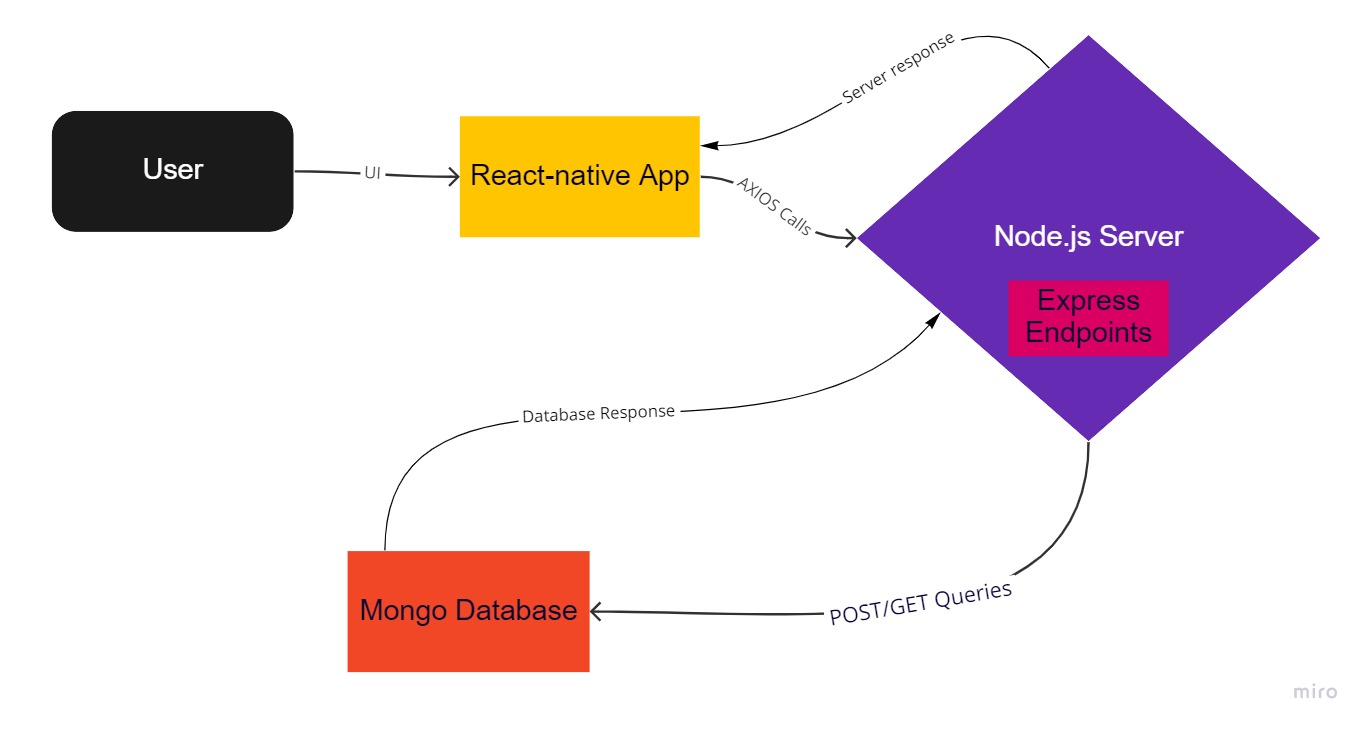
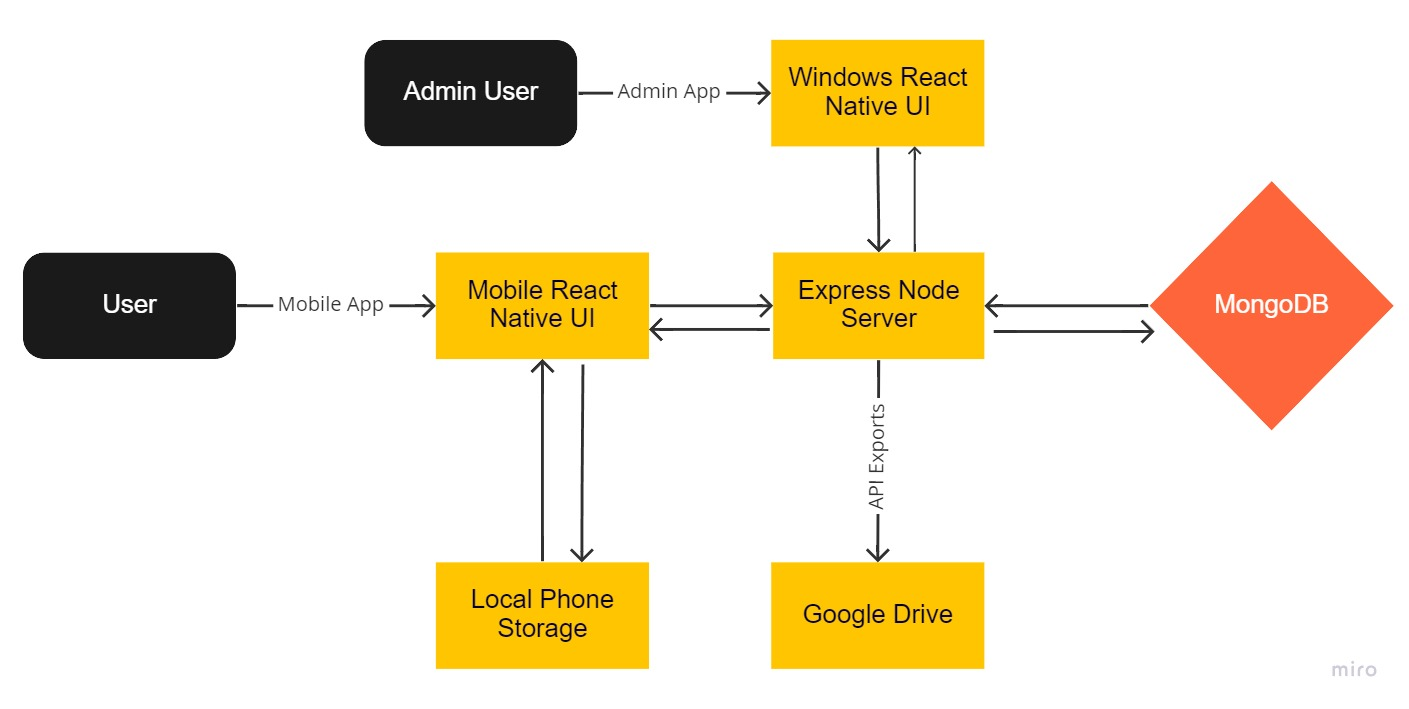
updated project readme and .env

diff --git a/server/app.js b/server/app.js
@@ -736,7 +736,7 @@ app.post('/export', async (req, res) => {
         
         // fetch parent folder id 
         let files =  await drive.files.list({ auth: token });
-        let parentFolder = '1fyMUaCbYwN_BpwTtwANkBcfgf4s3iElk';
+        let parentFolder = process.env.PARENT_FOLDER;
         for (let file of files.data.files) {
             if (file.name.toLowerCase().includes('exported entries') && file.id) 
                 parentFolder = file.id;

diff --git a/README.md b/README.md
@@ -1,18 +1,19 @@
-# START Data
-A MERN based full stack mobile application for START project data entry.
+# Data Entry App
+A MERN based data entry system that consists of a mobile data entry app and an administrator windows app for managing user credentials and data entry features.
+
+## Contributing
+Please read our [CONTRIBUTING.md](CONTRIBUTING.md) to learn about our development process, how to propose bug fixes and improvements, and how to join us in the development of this project.
 
 ## Features
-- User login authentication and signup. 
-- Generic data entry form modifiable through a json file [`fields.json`](##fieldsjson-format) where fields can be added or removed without any modifications to the codebase.
-- Image upload with a data entry about a reptile that is displayed every time the entry is shown later through lookup or saved entries on disk.
-- Guest Mode that isn't allowed to submit data to the server but can save to phone disk and access them later on the same device in normal mode for submission.
-- Search functionality based on category and other criteria specified in a json file [`search.json`](##searchjson-format) where fields can be added or removed without any modification to the codebase. 
+- A Generic data entry form modifiable through the `fields` collection in the mongo database.
+- A search functionality that allows users to query data entries based on specified criteria.
+- An export functionality that allows users to export single or groups of data entries into a google drive shareable folder with  
 
 ## Components
 ![Project Chart](./assets/images/projectchart.jpg)
-- React-native based front-end user interface, making axios calls to the server on user data entry submissions and searches. Check [app readme](./app/README.md) for more information.
-- Local Mongo Database storing collections of user login credentials, reptile information and images.
-- Node.js server with express.js endpoints querying the database and responding to the axios calls made by the react-native app. Check [server readme](./server/README.md) for more information.
+- React-native based mobile & windows desktop interfaces, making http requests to the server on user interactions. Check [app readme](./app/README.md) for more information on the mobile app and [admin readme](./admin/README.md) for more information on the admin app.
+- Local Mongo Database storing collections of login credentials, submitted & shared data entries, data entry images and data entry fields.
+- Node.js server with express.js endpoints querying the database and responding to the http requests made by the apps. Check [server readme](./server/README.md).
 
 ## Fields.json Format
 `fields.json` is located at [./app/utils/fields.json](./app/utils/fields.json). It specifies all the fields which the `Data Entry` screen is dependent on. To modify the `fields.json` file a specific format must be followed:
@@ -47,7 +48,7 @@ A MERN based full stack mobile application for START project data entry.
     * isNumber: boolean indicating if the value is a number or not.
 
 ## Search.json Format
-`search.json` is located at [./app/utils/search.json](./app/utils/search.json). It specifies all the search criteria fields which the `Search` screen is dependent on. To modify the `fields.json` file a similar format to `fields.json` must be followed:
+`search.json` is located at [./app/utils/json/search.json](./app/utils/json/search.json). It specifies all the search criteria fields which the `Search` screen is dependent on. To modify the `fields.json` file a similar format to `fields.json` must be followed:
 ```json
 [
     {
@@ -71,3 +72,6 @@ A MERN based full stack mobile application for START project data entry.
 - Similar to the `fields.json` each object added to the main list, its category name is added to the category buttons at the top except the object with name == "All". Conditional criteria under the 'All' category will be displayed no matter which button is selected at the top.
 - For each object added to the conditional criteria lists a new option in the search criteria dropdowns is made with the name element and the Subfields are displayed under the dropdown on selection. 
 - Subfields are not required and if not specified, the screen displays a single "sub field" under the dropdown for the selected field inheriting the name of the parent field.
+
+## License
+This project is MIT licensed, as found in the [LICENSE](./LICENSE).
